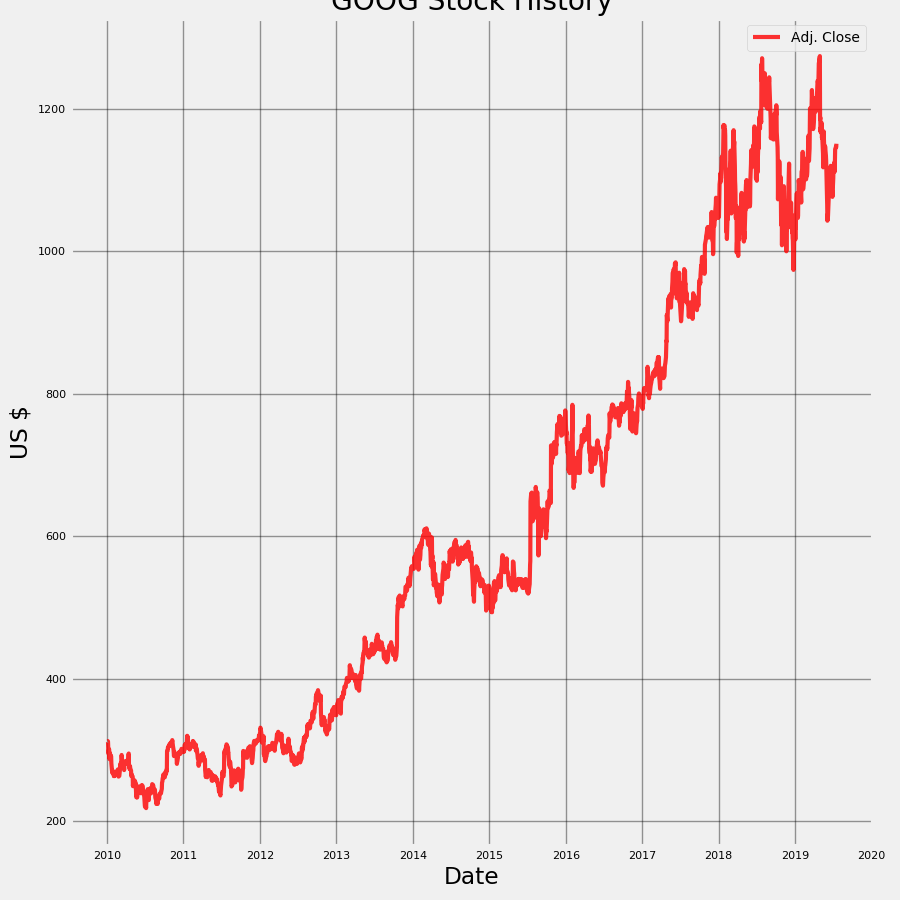
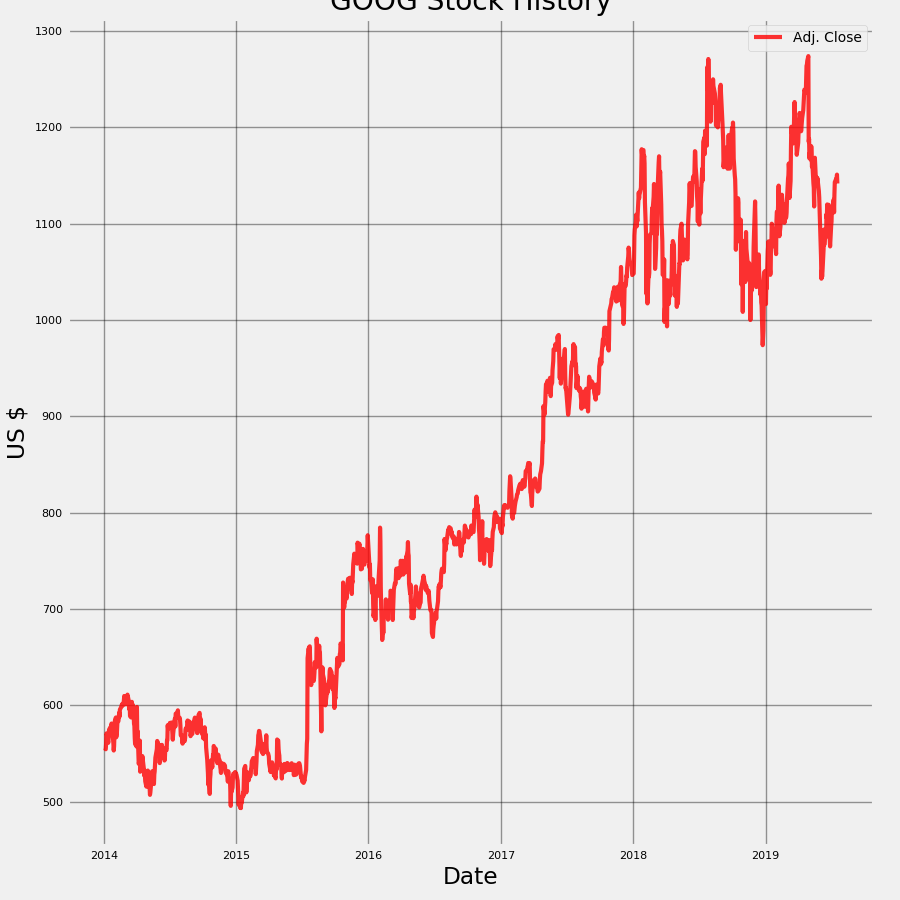
update

diff --git a/templates/Dashboard.html b/templates/Dashboard.html
@@ -51,7 +51,7 @@ Tip 2: you can also add an image using data-image tag
       </a>
     </li>
 
-    <li class=" active nav-item dropdown " >
+    <li class=" active nav-item dropdown " action="/dashboard.html" method="POST">
       <a class="nav-link" href="#0" id="navbarDropdownMenuLink"  data-color="purple">
         <i class="material-icons">settings</i>
 
@@ -59,18 +59,27 @@ Tip 2: you can also add an image using data-image tag
         <div>
         </div>
       </a>
+      
 
       <a class="dropdown-item1 active nav-item" style="display: none; background-color: #43a047;" >
-
-        <form>
-          Stock History
-          <br/>
-          <br/>
-          Start Date
-          <input type="text">  </input> 
-
+        <form action="/dashboard.html" method="POST">
+          <div class="input-group no-border">
+            <select type="history_plot_start" name="ticker" class="form-control" placeholder="Start" style= "width:150px;">
+              <option value="2019-01-01">2019</option>
+              <option value="2018-01-01">2018</option>
+              <option value="TSLA">Tesla</option>
+              <option value="MSFT">Microsoft</option>
+              <option value="F">Ford</option>
+              <option value="FB">Facebook</option>
+              <option value="SNE">Sony</option>  
+            </select>
+            <button type="submit" class="btn btn-white btn-round btn-just-icon">
+              <i class="material-icons">search</i>
+  
+              <div class="ripple-container"></div>
+            </button>
+          </div>
         </form>
-        End Date <input type="text">  </input> 
       </a>
       <a class="dropdown-item1" style="display: none; background-color: #fb8c00;" >
 
@@ -110,6 +119,11 @@ Tip 2: you can also add an image using data-image tag
         </form>
         End Date <input type="text">  </input> 
       </a>
+      <button type="submit" class="btn btn-white btn-round btn-just-icon">
+        <i class="material-icons">search</i>
+
+        <div class="ripple-container"></div>
+      </button>
     </li>
 
     <!-- your sidebar here -->

diff --git a/stock-explorer.py b/stock-explorer.py
@@ -77,6 +77,7 @@ def dashboard():
     global change_points_date
     if request.method == 'POST':
         text = request.form['ticker']
+        history_plot_start_date = request.form['history_plot_start']
         # settings parameters
         # history plot
         history_plot_start_date = datetime(2014,1,1)
